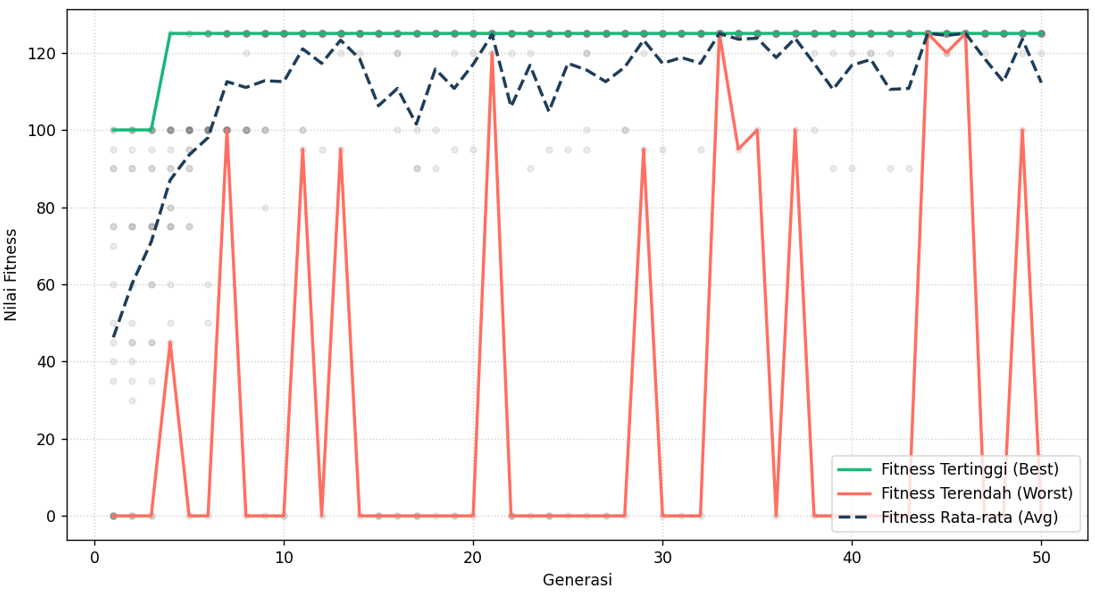
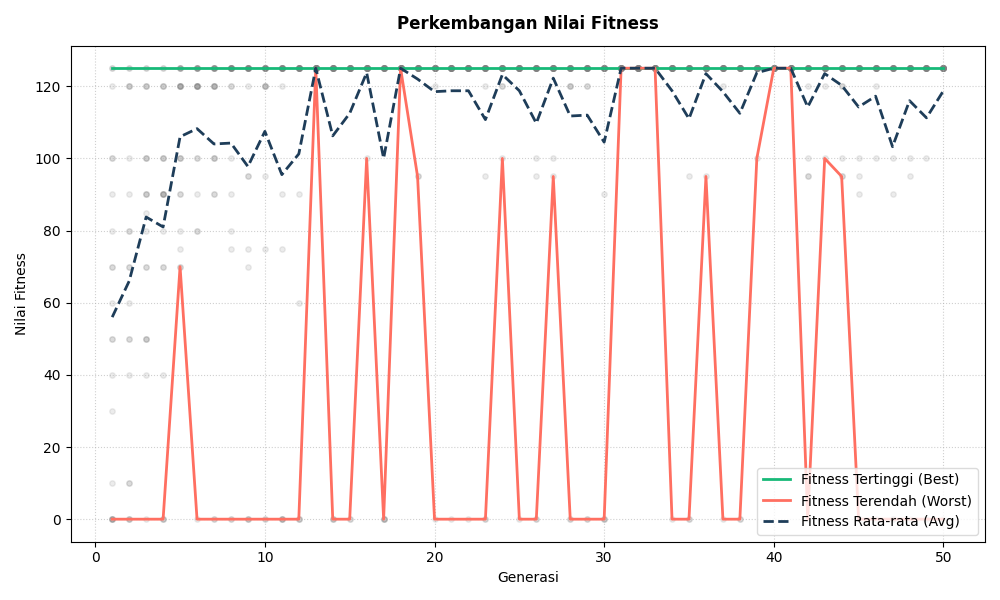
Update code

diff --git a/main.py b/main.py
@@ -1,0 +1,160 @@
+import random
+import os
+import matplotlib
+matplotlib.use('Agg')
+import matplotlib.pyplot as plt
+
+os.makedirs('output', exist_ok=True)
+
+from InisiasiPopulasi import inisialisasi_populasi
+from EvaluasiFitness import hitung_fitness
+from selection import tournament_selection
+from crossover import two_point_crossover
+from mutation import swap_mutation
+
+barang = [
+    ("Barang 1", 10, 5),
+    ("Barang 2", 40, 4),
+    ("Barang 3", 30, 6),
+    ("Barang 4", 50, 3),
+    ("Barang 5", 35, 7)
+]
+
+def run_ga(jumlah_generasi, jumlah_populasi, prob_crossover, prob_mutasi, kapasitas_tas, tournament_size=3):
+    print("=" * 70)
+    print("     TUGAS PRAKTIKUM KECERDASAN BUATAN - PERTEMUAN 10")
+    print("     Optimasi Gudang (Knapsack) dengan Algoritma Genetika")
+    print("     NIM: H1D024037")
+    print("=" * 70)
+    
+    print("[INFO] Parameter Algoritma Genetika:")
+    print(f"  - Kapasitas Maksimal Gudang : {kapasitas_tas}")
+    print(f"  - Jumlah Generasi           : {jumlah_generasi}")
+    print(f"  - Jumlah Populasi           : {jumlah_populasi}")
+    print(f"  - Probabilitas Crossover    : {prob_crossover}")
+    print(f"  - Probabilitas Mutasi       : {prob_mutasi}")
+    print(f"  - Metode Seleksi            : Tournament Selection (TS), k={tournament_size}")
+    print(f"  - Metode Crossover          : Two-Point Crossover")
+    print(f"  - Metode Mutasi             : Swap\n")
+    
+    print("[INFO] Data Barang Toko:")
+    for b in barang:
+        print(f"  - {b[0]}: Keuntungan = {b[1]}, Ukuran = {b[2]}")
+    print("-" * 70)
+    print("PROSES EVOLUSI")
+    print("-" * 70)
+
+    jumlah_gen = len(barang)
+    populasi = inisialisasi_populasi(jumlah_populasi, jumlah_gen)
+    
+    best_fitness_list = []
+    worst_fitness_list = []
+    avg_fitness_list = []
+    all_fitness = []
+    
+    best_individu = None
+    best_fitness_overall = -1
+    
+    for generasi in range(jumlah_generasi):
+        fitness_populasi = [hitung_fitness(individu, barang, kapasitas_tas) for individu in populasi]
+        
+        best_fitness = max(fitness_populasi)
+        worst_fitness = min(fitness_populasi)
+        avg_fitness = sum(fitness_populasi) / len(fitness_populasi)
+        
+        best_fitness_list.append(best_fitness)
+        worst_fitness_list.append(worst_fitness)
+        avg_fitness_list.append(avg_fitness)
+        all_fitness.append(fitness_populasi.copy())
+        
+        if best_fitness > best_fitness_overall:
+            best_fitness_overall = best_fitness
+            index_best = fitness_populasi.index(best_fitness)
+            best_individu = populasi[index_best].copy()
+            
+        print(f"Generasi {generasi+1:02d} | Best: {best_fitness:5.1f} | Average: {avg_fitness:5.1f} | Worst: {worst_fitness:5.1f}")
+        
+        new_populasi = []
+        used_indices = []
+        
+        while len(new_populasi) < jumlah_populasi:
+            parent1, idx1 = tournament_selection(populasi, fitness_populasi, k=tournament_size)
+            used_indices.append(idx1)
+            
+            available_indices = [i for i in range(len(populasi)) if i not in used_indices]
+            if not available_indices:
+                used_indices = [idx1]
+                available_indices = [i for i in range(len(populasi)) if i != idx1]
+                
+            available_pop = [populasi[i] for i in available_indices]
+            available_fit = [fitness_populasi[i] for i in available_indices]
+            
+            parent2, idx2_in_available = tournament_selection(available_pop, available_fit, k=tournament_size)
+            idx2 = available_indices[idx2_in_available]
+            used_indices.append(idx2)
+            
+            if random.random() < prob_crossover:
+                anak1, anak2 = two_point_crossover(parent1, parent2)
+            else:
+                anak1, anak2 = parent1[:], parent2[:]
+                
+            if random.random() < prob_mutasi:
+                anak1 = swap_mutation(anak1)
+            if random.random() < prob_mutasi:
+                anak2 = swap_mutation(anak2)
+                
+            new_populasi.extend([anak1, anak2])
+            
+        populasi = new_populasi[:jumlah_populasi]
+        
+    print("=" * 70)
+    print("HASIL OPTIMASI TERBAIK")
+    print("=" * 70)
+    
+    selected_items = [barang[i][0] for i in range(len(best_individu)) if best_individu[i] == 1]
+    selected_weight = sum([barang[i][2] for i in range(len(best_individu)) if best_individu[i] == 1])
+    
+    print(f"Kromosom Terbaik     : {best_individu}")
+    print(f"Total Keuntungan     : {best_fitness_overall}")
+    print(f"Total Ukuran/Bobot   : {selected_weight} (Kapasitas: {kapasitas_tas})")
+    print("\nDaftar Barang Terpilih:")
+    if selected_items:
+        for item in selected_items:
+            detail_item = next(b for b in barang if b[0] == item)
+            print(f"  [v] {item} (Keuntungan: {detail_item[1]}, Ukuran: {detail_item[2]})")
+    else:
+        print("  [x] Tidak ada barang yang muat di gudang.")
+    print("-" * 70)
+    
+    plt.figure(figsize=(10, 6))
+    
+    for i in range(jumlah_generasi):
+        x = [i + 1] * len(all_fitness[i])
+        y = all_fitness[i]
+        plt.scatter(x, y, color='gray', alpha=0.15, s=15)
+        
+    plt.plot(range(1, jumlah_generasi + 1), best_fitness_list, color='#17b978', linewidth=2, label='Fitness Tertinggi (Best)')
+    plt.plot(range(1, jumlah_generasi + 1), worst_fitness_list, color='#ff6f61', linewidth=2, label='Fitness Terendah (Worst)')
+    plt.plot(range(1, jumlah_generasi + 1), avg_fitness_list, color='#1e3d59', linewidth=2, linestyle='--', label='Fitness Rata-rata (Avg)')
+    
+    plt.title('Perkembangan Nilai Fitness', fontsize=12, fontweight='bold', pad=12)
+    plt.xlabel('Generasi')
+    plt.ylabel('Nilai Fitness')
+    plt.legend(loc='lower right', frameon=True, facecolor='white', edgecolor='lightgray')
+    plt.grid(True, linestyle=':', alpha=0.6)
+    plt.tight_layout()
+    
+    plt.savefig('output/fitness_history.png')
+    print("[INFO] Grafik disimpan di output/fitness_history.png")
+    plt.close()
+    print("=" * 70)
+
+if __name__ == "__main__":
+    run_ga(
+        jumlah_generasi=50, 
+        jumlah_populasi=20, 
+        prob_crossover=0.8, 
+        prob_mutasi=0.15, 
+        kapasitas_tas=15,
+        tournament_size=3
+    )

diff --git a/crossover.py b/crossover.py
@@ -1,0 +1,37 @@
+import random
+
+def one_point_crossover(parent1, parent2):
+    titik_potong = random.randint(1, len(parent1)-1)
+    anak1 = parent1[:titik_potong] + parent2[titik_potong:]
+    anak2 = parent2[:titik_potong] + parent1[titik_potong:]
+    return anak1, anak2
+
+def two_point_crossover(parent1, parent2):
+    if len(parent1) < 3:
+        return one_point_crossover(parent1, parent2)
+    titik1 = random.randint(1, len(parent1)-2)
+    titik2 = random.randint(titik1+1, len(parent1)-1)
+    anak1 = parent1[:titik1] + parent2[titik1:titik2] + parent1[titik2:]
+    anak2 = parent2[:titik1] + parent1[titik1:titik2] + parent2[titik2:]
+    return anak1, anak2
+
+def uniform_crossover(parent1, parent2):
+    mask = [random.randint(0, 1) for _ in range(len(parent1))]
+    anak1 = []
+    anak2 = []
+    for i in range(len(parent1)):
+        if mask[i] == 0:
+            anak1.append(parent1[i])
+            anak2.append(parent2[i])
+        else:
+            anak1.append(parent2[i])
+            anak2.append(parent1[i])
+    return anak1, anak2
+
+if __name__ == "__main__":
+    parent1 = [1, 0, 1, 1, 0]
+    parent2 = [0, 1, 0, 0, 1]
+    anak1, anak2 = two_point_crossover(parent1, parent2)
+    print("\nAnak Hasil Two-Point Crossover:")
+    print(f"Anak1: {anak1}")
+    print(f"Anak2: {anak2}")

diff --git a/selection.py b/selection.py
@@ -1,0 +1,36 @@
+import random
+
+def roulette_wheel_selection(populasi, fitness_populasi):
+    total_fitness = sum(fitness_populasi)
+    if total_fitness == 0:
+        idx = random.randrange(len(populasi))
+        return populasi[idx], idx
+    probabilitas = [fitness / total_fitness for fitness in fitness_populasi]
+    kumulatif_prob = []
+    kumulatif = 0
+    for p in probabilitas:
+        kumulatif += p
+        kumulatif_prob.append(kumulatif)
+    r = random.random()
+    for i, kum_prob in enumerate(kumulatif_prob):
+        if r <= kum_prob:
+            return populasi[i], i
+    return populasi[-1], len(populasi)-1
+
+def tournament_selection(populasi, fitness_populasi, k=3):
+    if len(populasi) < k:
+        k = len(populasi)
+    peserta_indices = random.sample(range(len(populasi)), k)
+    peserta = [(populasi[i], fitness_populasi[i], i) for i in peserta_indices]
+    peserta.sort(key=lambda x: x[1], reverse=True)
+    return peserta[0][0], peserta[0][2]
+
+if __name__ == "__main__":
+    populasi_awal = ['individu1', 'individu2', 'individu3', 'individu4']
+    fitness_populasi = [10, 20, 30, 40]
+    available_populasi = populasi_awal.copy()
+    available_fitness = fitness_populasi.copy()
+    parent1, idx1 = roulette_wheel_selection(available_populasi, available_fitness)
+    print(f"Parent 1 (RWS): {parent1}")
+    parent2, idx2 = tournament_selection(available_populasi, available_fitness, k=2)
+    print(f"Parent 2 (TS): {parent2}")

diff --git a/mutation.py b/mutation.py
@@ -1,0 +1,32 @@
+import random
+
+def swap_mutation(kromosom):
+    kromosom = list(kromosom)
+    if len(kromosom) < 2:
+        return kromosom
+    posisi1, posisi2 = random.sample(range(len(kromosom)), 2)
+    kromosom[posisi1], kromosom[posisi2] = kromosom[posisi2], kromosom[posisi1]
+    return kromosom
+
+def inversion_mutation(kromosom):
+    kromosom = list(kromosom)
+    if len(kromosom) < 2:
+        return kromosom
+    posisi1 = random.randint(0, len(kromosom) - 2)
+    posisi2 = random.randint(posisi1 + 1, len(kromosom) - 1)
+    kromosom[posisi1:posisi2] = list(reversed(kromosom[posisi1:posisi2]))
+    return kromosom
+
+def uniform_mutation(kromosom, mutation_rate=0.1):
+    kromosom = list(kromosom)
+    for i in range(len(kromosom)):
+        if random.random() < mutation_rate:
+            kromosom[i] = 1 - kromosom[i]
+    return kromosom
+
+if __name__ == "__main__":
+    kromosom = [0, 1, 1, 0, 1]
+    print(f"Original: {kromosom}")
+    print(f"Swap Mutation: {swap_mutation(kromosom.copy())}")
+    print(f"Inversion Mutation: {inversion_mutation(kromosom.copy())}")
+    print(f"Uniform Mutation: {uniform_mutation(kromosom.copy())}")

diff --git a/EvaluasiFitness.py b/EvaluasiFitness.py
@@ -1,0 +1,26 @@
+def hitung_fitness(kromosom, barang, kapasitas_tas):
+    total_harga = 0
+    total_bobot = 0
+    for i in range(len(kromosom)):
+        if kromosom[i] == 1:
+            total_harga += barang[i][1]
+            total_bobot += barang[i][2]
+    if total_bobot > kapasitas_tas:
+        return 0
+    else:
+        return total_harga
+
+if __name__ == "__main__":
+    barang = [("Barang 1", 10, 5),
+              ("Barang 2", 40, 4),
+              ("Barang 3", 30, 6),
+              ("Barang 4", 50, 3),
+              ("Barang 5", 35, 7)]
+    kapasitas_tas = 15
+    populasi_awal = [[1, 0, 1, 0, 1],
+                     [0, 1, 0, 1, 0],
+                     [1, 1, 0, 0, 1]]
+    fitness_populasi = [hitung_fitness(individu, barang, kapasitas_tas) for individu in populasi_awal]
+    print("\nNilai Fitness:")
+    for idx, fitness in enumerate(fitness_populasi):
+        print(f"Individu {idx+1}: Fitness = {fitness}")

diff --git a/InisiasiPopulasi.py b/InisiasiPopulasi.py
@@ -1,0 +1,17 @@
+import random
+
+# buat populasi awal random biner
+def inisialisasi_populasi(jumlah_populasi, jumlah_gen):
+    populasi = []
+    for i in range(jumlah_populasi):
+        kromosom = [random.randint(0, 1) for _ in range(jumlah_gen)]
+        populasi.append(kromosom)
+    return populasi
+
+if __name__ == "__main__":
+    jumlah_populasi = 10
+    jumlah_gen = 5
+    populasi_awal = inisialisasi_populasi(jumlah_populasi, jumlah_gen)
+    print("Populasi Awal:")
+    for idx, individu in enumerate(populasi_awal):
+        print(f"Individu {idx+1}: {individu}")